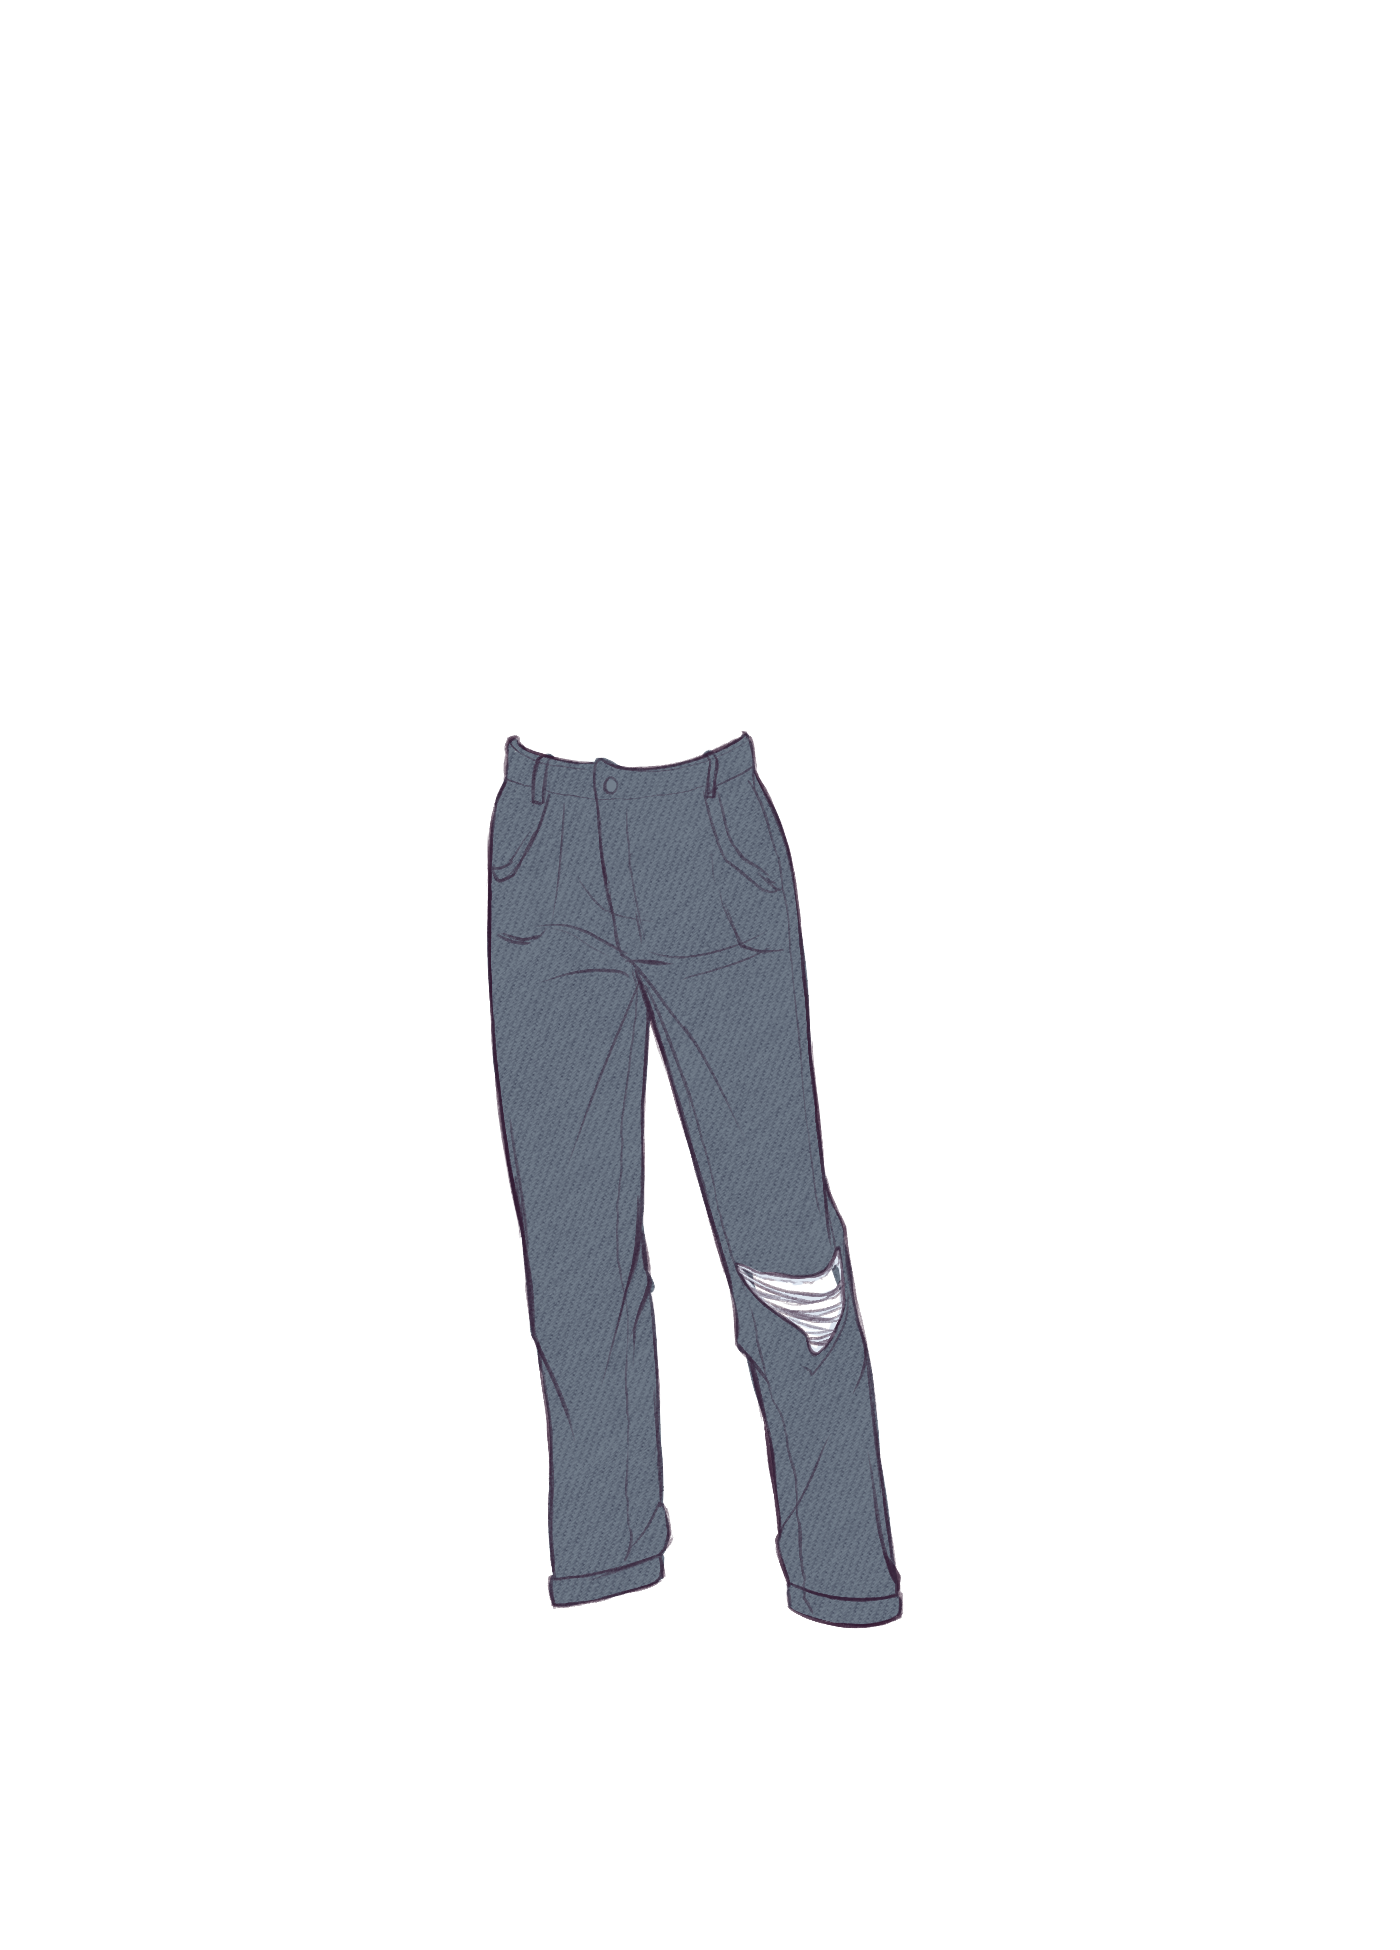
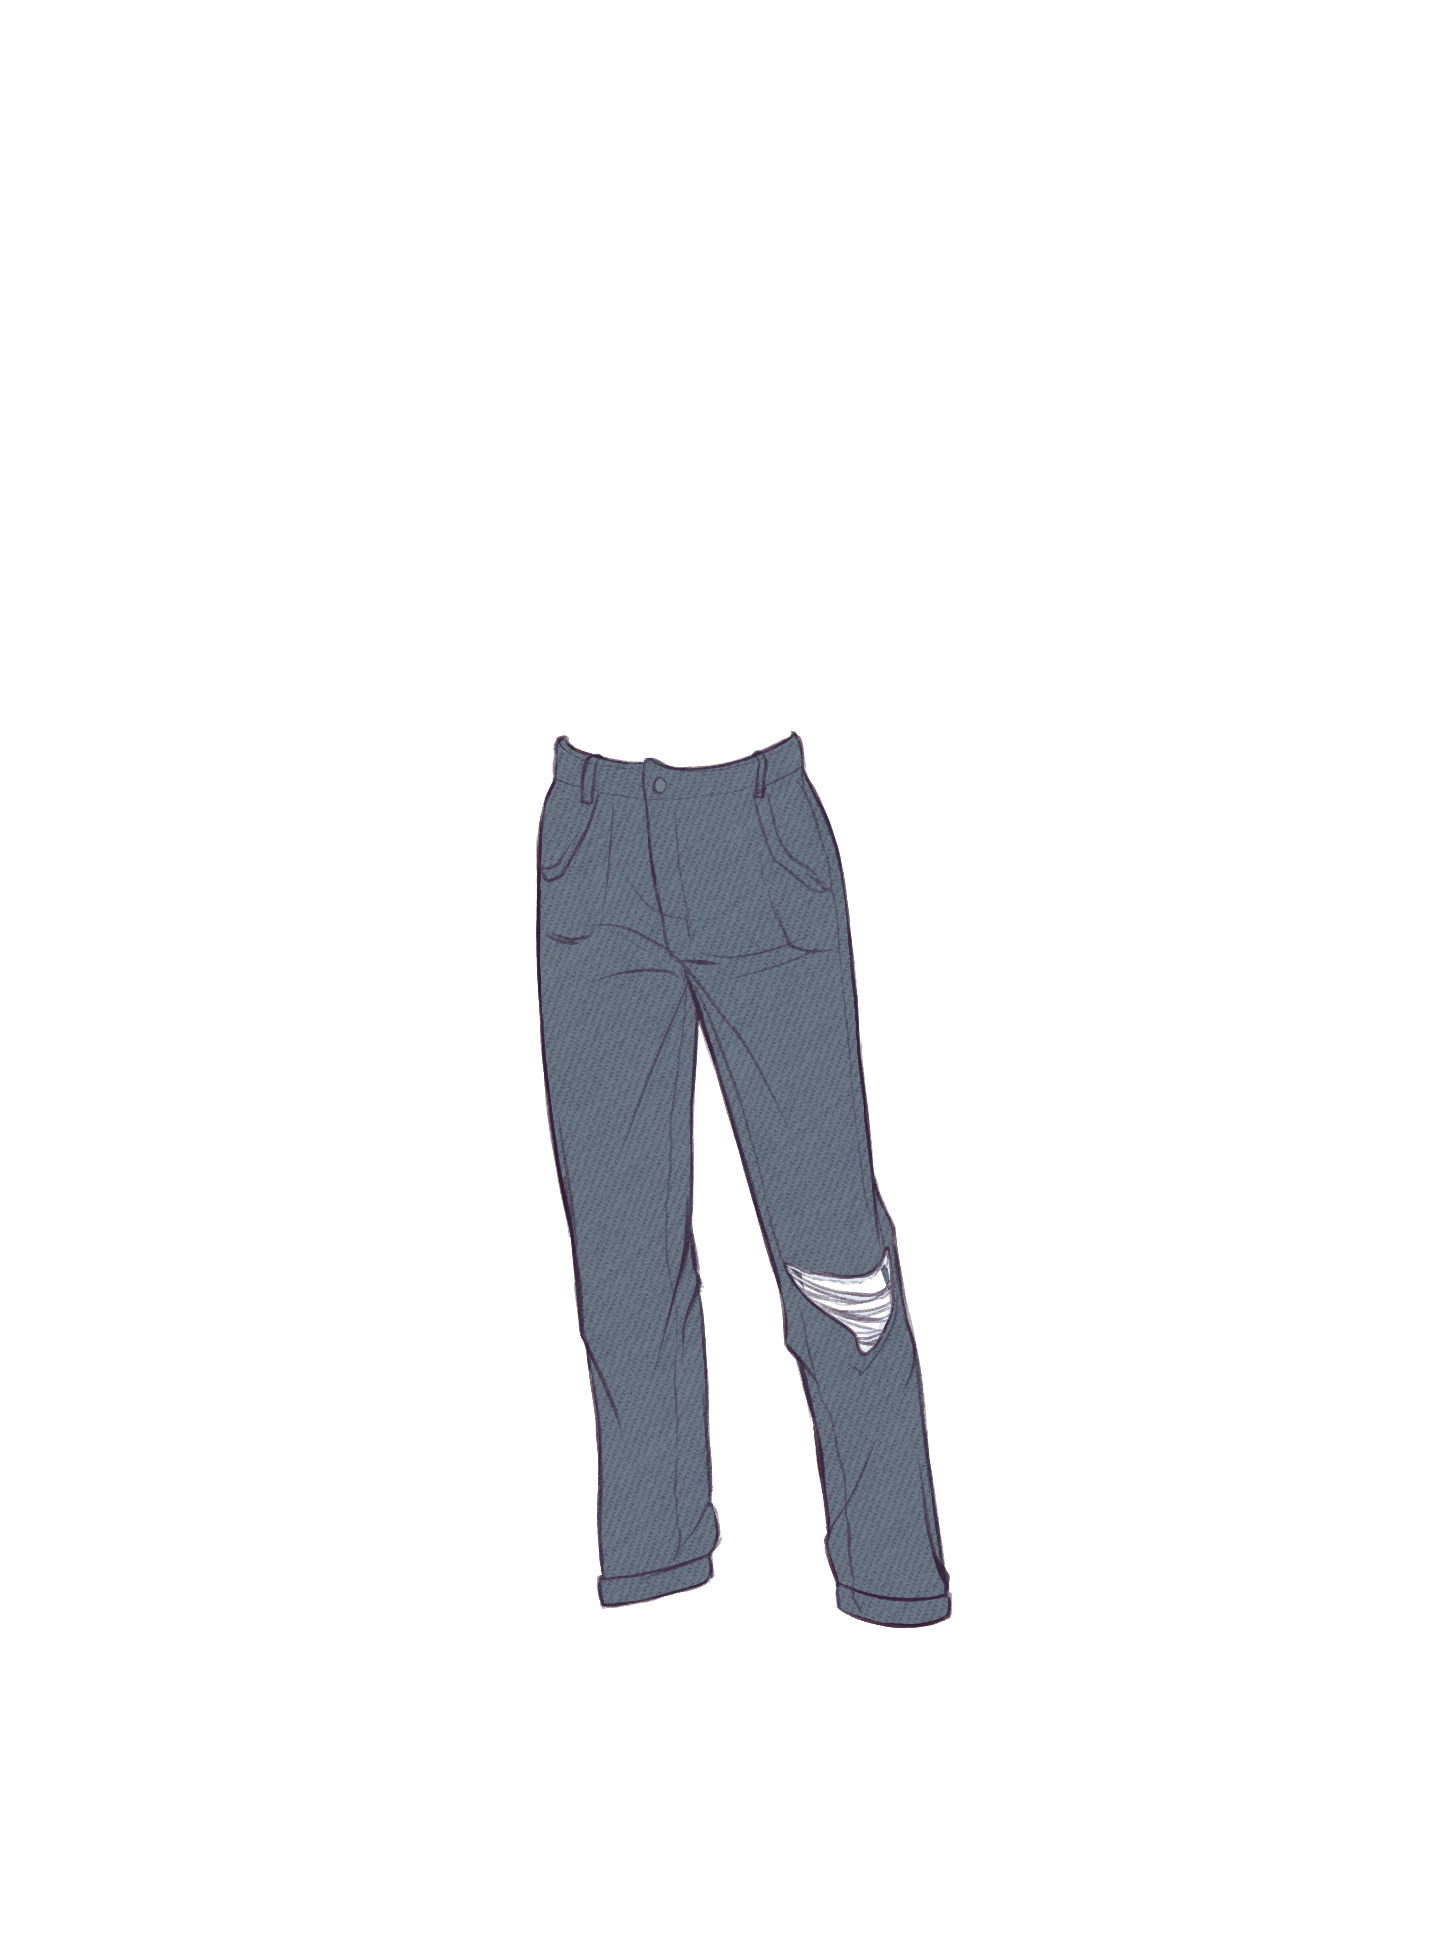
some new clothes

Changed region(s): [[0.3379, 0.3692, 0.6757, 0.8308]]

diff --git a/src/config/characters/bill.ts b/src/config/characters/bill.ts
@@ -4,7 +4,7 @@ export const BillWeasley: CharacterConfig = {
     id: 'billweasley',
     name: 'Bill Weasley',
     author: 'leafoggy',
-    canvasSize: { width: 1400, height: 1950 },
+    canvasSize: { width: 1450, height: 1950 },
     bodySrc: 'assets/characters/bill/base/body.PNG',
     items: [
         {
@@ -14,7 +14,7 @@ export const BillWeasley: CharacterConfig = {
             subcategory: 'hair',
             slot: 'hair',
             src: 'assets/characters/bill/hair/ponytail.PNG',
-            defaultZIndex: 15,
+            defaultZIndex: 17,
             isRemovable: false,
             isDefault: true
         },
@@ -25,7 +25,7 @@ export const BillWeasley: CharacterConfig = {
             subcategory: 'bottom',
             slot: 'bottom',
             src: 'assets/characters/bill/clothes/bottoms/baggy_jeans.PNG',
-            defaultZIndex: 50,
+            defaultZIndex: 55,
             isRemovable: true,
             isDefault: true
         },
@@ -36,7 +36,17 @@ export const BillWeasley: CharacterConfig = {
             subcategory: 'outerwear',
             slot: 'outerwear',
             src: 'assets/characters/bill/clothes/outerwear/denim_vest.PNG',
-            defaultZIndex: 70,
+            defaultZIndex: 75,
+            isRemovable: true
+        },
+        {
+            id: 'jacket',
+            name: 'Leather jacket',
+            tab: 'clothes',
+            subcategory: 'outerwear',
+            slot: 'outerwear',
+            src: 'assets/characters/bill/clothes/outerwear/leather_jacket.PNG',
+            defaultZIndex: 75,
             isRemovable: true
         },
         {
@@ -46,7 +56,7 @@ export const BillWeasley: CharacterConfig = {
             subcategory: 'shoes',
             slot: 'shoes',
             src: 'assets/characters/bill/clothes/shoes/boots.PNG',
-            defaultZIndex: 40,
+            defaultZIndex: 45,
             isRemovable: true,
             isDefault: true
         },
@@ -57,7 +67,7 @@ export const BillWeasley: CharacterConfig = {
             subcategory: 'top',
             slot: 'top_inner',
             src: 'assets/characters/bill/clothes/tops/mesh_sweater.PNG',
-            defaultZIndex: 20,
+            defaultZIndex: 25,
             isRemovable: true
         },
         {
@@ -67,9 +77,49 @@ export const BillWeasley: CharacterConfig = {
             subcategory: 'top',
             slot: 'top_mid',
             src: 'assets/characters/bill/clothes/tops/red_top.PNG',
-            defaultZIndex: 60,
+            defaultZIndex: 65,
             isRemovable: true,
             isDefault: true
+        },
+        {
+            id: 'earring1',
+            name: 'Fang earring',
+            tab: 'details',
+            subcategory: 'acc',
+            slot: 'acc',
+            src: 'assets/characters/bill/details/acc/fang.PNG',
+            defaultZIndex: 20,
+            isRemovable: true
+        },
+        {
+            id: 'earring2',
+            name: 'Chain earring',
+            tab: 'details',
+            subcategory: 'acc',
+            slot: 'acc',
+            src: 'assets/characters/bill/details/acc/chain.PNG',
+            defaultZIndex: 15,
+            isRemovable: true
+        },
+        {
+            id: 'earring3',
+            name: 'Pair earrings',
+            tab: 'details',
+            subcategory: 'acc',
+            slot: 'acc',
+            src: 'assets/characters/bill/details/acc/rings.PNG',
+            defaultZIndex: 20,
+            isRemovable: true
+        },
+        {
+            id: 'nails1',
+            name: 'Black nails',
+            tab: 'details',
+            subcategory: 'skin',
+            slot: 'skin',
+            src: 'assets/characters/bill/details/acc/nails.PNG',
+            defaultZIndex: 15,
+            isRemovable: true
         },
         {
             id: 'scars',
@@ -78,7 +128,18 @@ export const BillWeasley: CharacterConfig = {
             subcategory: 'skin',
             slot: 'skin',
             src: 'assets/characters/bill/details/skin/scars.PNG',
-            defaultZIndex: 10,
+            defaultZIndex: 13,
+            isRemovable: true,
+            isDefault: true
+        },
+        {
+            id: 'bags',
+            name: 'Some sleep',
+            tab: 'details',
+            subcategory: 'skin',
+            slot: 'skin',
+            src: 'assets/characters/bill/details/skin/sleep.PNG',
+            defaultZIndex: 11,
             isRemovable: true,
             isDefault: true
         },

diff --git a/src/engine/exporter.ts b/src/engine/exporter.ts
@@ -2,7 +2,7 @@ import type { CharacterConfig, Item } from '../types';
 
 export async function downloadOutfit(character: CharacterConfig, equippedItems: Item[]): Promise<void> {
   const canvas = document.createElement('canvas');
-  canvas.width = character.canvasSize.width;   // 1400
+  canvas.width = character.canvasSize.width;   // 1450
   canvas.height = character.canvasSize.height; // 1950
   const ctx = canvas.getContext('2d');
 
